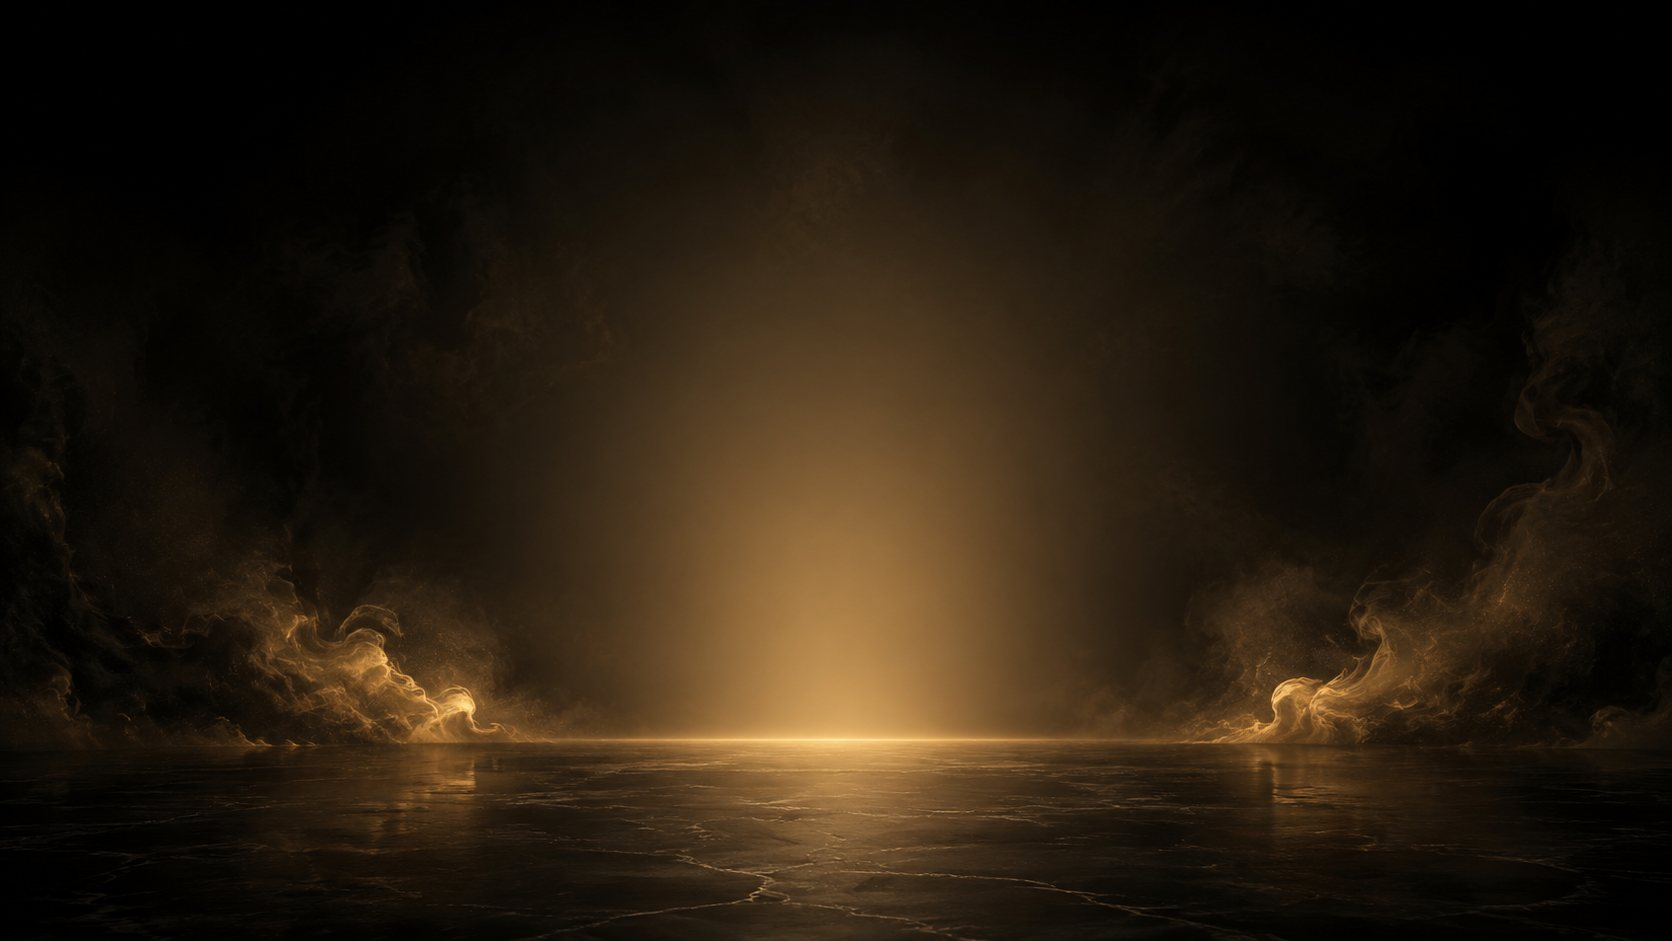
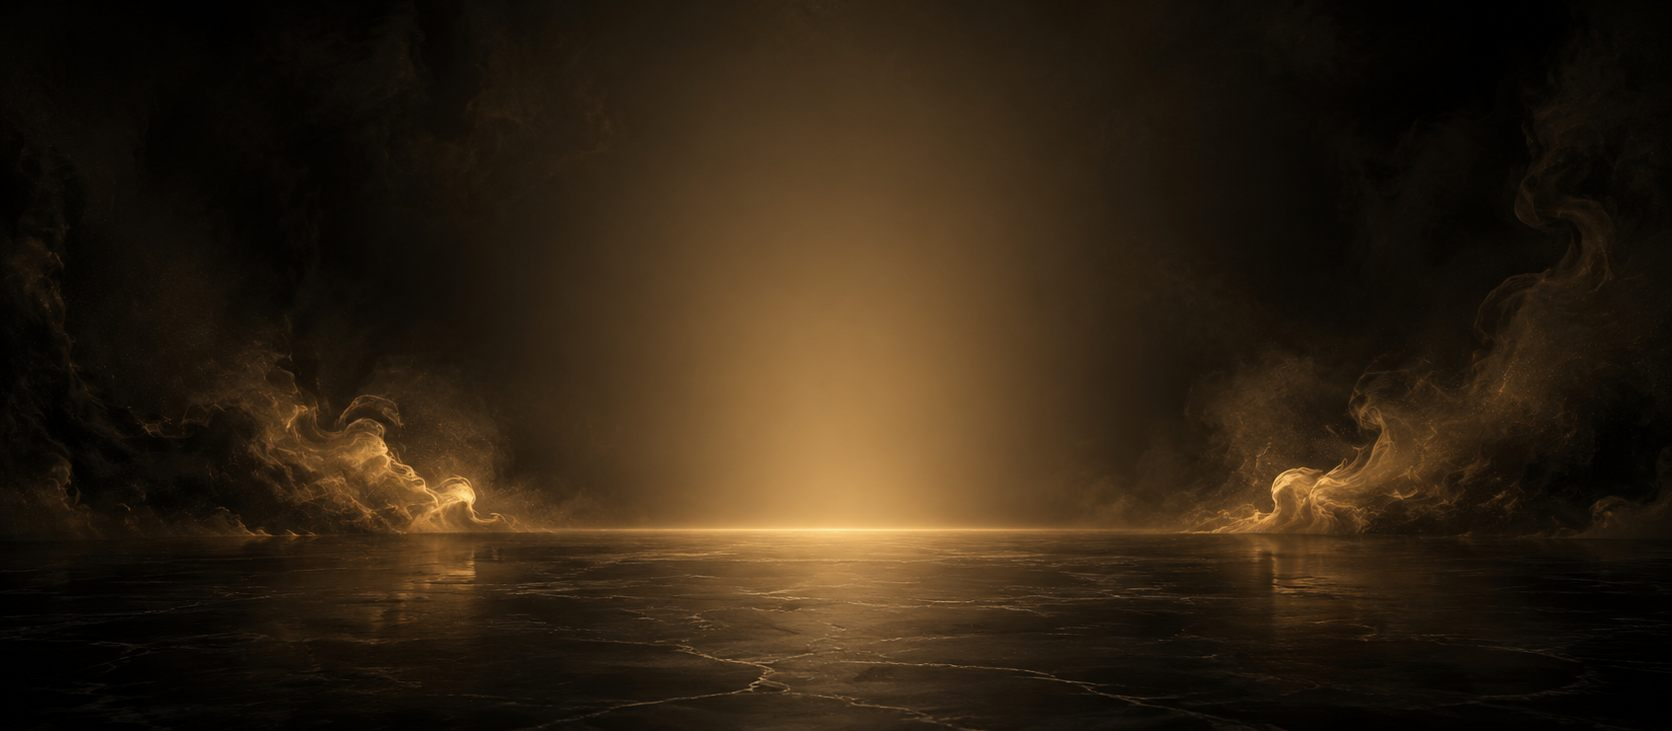
fix: keep hero full-height and pre-crop backdrop so no next section peeks
Pre-crop the backdrop to remove the empty top and let the hero fill the
viewport height (cover, bottom-anchored) instead of a fixed short aspect
ratio, so the composition stays the same while the section always fills
the screen. Reseat the product on the floor for the new framing.

diff --git a/src/style.scss b/src/style.scss
@@ -678,13 +678,13 @@
 
 	/* stylelint-disable no-descending-specificity */
 
-	/* Source artwork is 1672 x 941. We use a much shorter box and anchor the
-	   image to the bottom so most of the empty top is cropped and the marble
-	   floor sits high enough for the product to stand on it. */
+	/* The artwork is pre-cropped (1672 x 731) so the empty top is already gone.
+	   We fill the viewport height and cover from the bottom, so the marble floor
+	   stays anchored and the next section never peeks in on tall screens. */
 	.perfumes-landing .hero-section {
-		height: auto;
-		min-height: 0;
-		aspect-ratio: 1672 / 720;
+		height: 100svh;
+		min-height: 620px;
+		max-height: 960px;
 		justify-content: stretch;
 		border-radius: 0 0 40px 40px;
 		background-color: #071527;
@@ -878,11 +878,11 @@
 	.perfumes-landing .hero-product-primary {
 		position: absolute;
 		z-index: 2;
-		bottom: 8%;
+		bottom: 12%;
 		left: 50%;
 		display: flex;
-		width: 30%;
-		height: 80%;
+		width: 32%;
+		height: 66%;
 		align-items: flex-end;
 		justify-content: center;
 		text-decoration: none;
@@ -1025,8 +1025,7 @@
 
 	@media (max-width: 1100px) {
 		.perfumes-landing .hero-section {
-			aspect-ratio: auto;
-			min-height: 760px;
+			min-height: 720px;
 		}
 
 		.perfumes-landing .hero-layout {
@@ -1035,9 +1034,9 @@
 		}
 
 		.perfumes-landing .hero-product-primary {
-			bottom: 9%;
-			width: min(58vw, 420px);
-			height: 62%;
+			bottom: 11%;
+			width: min(52vw, 400px);
+			height: 60%;
 		}
 
 		.perfumes-landing .hero-section .content-cta {
@@ -1062,9 +1061,9 @@
 		}
 
 		.perfumes-landing .hero-section {
-			aspect-ratio: auto;
-			height: auto;
-			min-height: 860px;
+			height: 100svh;
+			min-height: 720px;
+			max-height: none;
 			border-radius: 0 0 26px 26px;
 		}
 
